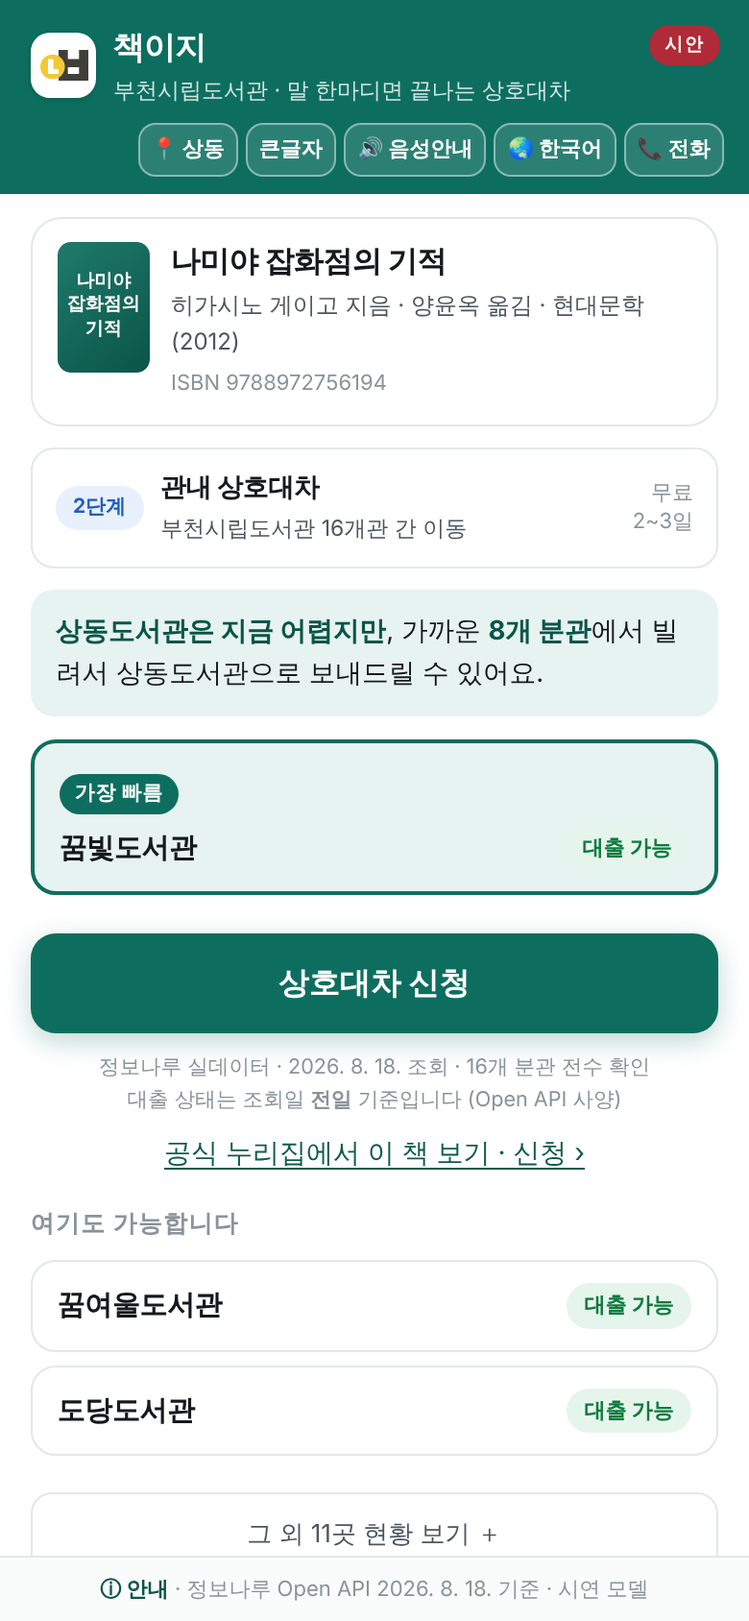
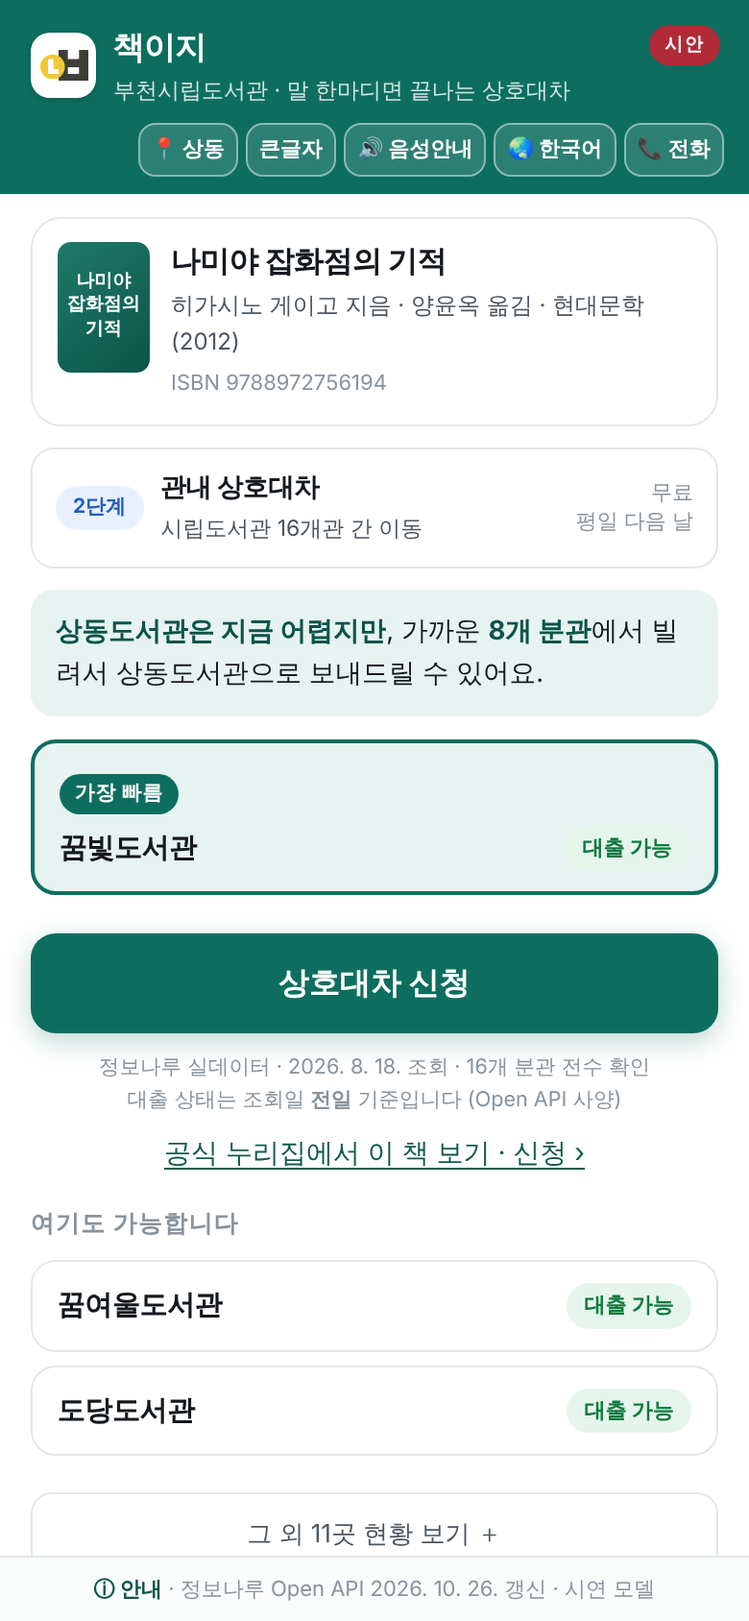
README·기록 정정 — 독립 검토(10. 26.)에서 찾은 사실·표현 바로잡기
- 공개 모델: 실측 4회와 기록표 3회를 구분(11건·4건은 기록표 세 차례), 첫 차례는 도구 11종이 보여 엑사원이 대출 상태를 지어냄, 차례마다 호스트를 고친 사실
- 작은 모델 오류를 기록대로: 판정이 같아도 대출 상태를 뒤집어 옮김(두 모델), 베트남어 문의 6번 모두 한국어
- 「설정 파일 하나로」는 파이썬 참조 서버 기준 — 중계(relay/worker.js)·시민 화면(index.html)은 도서관 코드 표도 바꿈, 반나절은 추정
- README: Ollama 명령에 ollama pull·--tools consult --pickup, 코랩 10~15분은 추정이며 코랩 실행 기록 없음, 책 고르기 한계, 대체자료·월간 추천은 예시 데이터, 판 이력 날짜(v0.3.5 10. 16., 누리집 규정값 10. 18.), 2.6초는 15건 가운데값(네트워크 포함), 동결~결선, 실사용 기록 없음, 시민 화면은 규칙을 화면 안에 따로 넣은 시연, 라이선스 미정 범위에 relay/
- README 첫 그림(docs/img/result.png)을 시연 웹 v1.12.6으로 다시 찍음(소요 「평일 다음 날」, 예시 단추 ② 8. 18. 장면이라고 밝힘)
- server/README 9. 23. 「33건 재현」 삭제(기록 없음) · 모델2종-구동.md 행정망 문장 · ROADMAP 미수령 제재 7~30일 · AGENTS.md 도구 11종·적합성 50건
- 동작 변화 없음(시험 193건 통과)

Claude-Session: https://claude.ai/code/session_01TtT9xcbTP3NzSioNJT8Spd

diff --git a/README.md b/README.md
@@ -1,12 +1,12 @@
 # 책이지 — 말 한마디로 내 손안에 책이
 
-**「나미야 잡화점의 기적, 상동에서 받을 수 있어요?」** 창구와 전화에서 사서가 날마다 받는 이런 질문을 그대로 넣으면, 책이지가 부천시립도서관 16곳의 소장·대출 상태를 확인하고 상호대차 규정 7가지를 맞춰 본 뒤, 이용자에게 읽어 줄 안내문과 창구에서 옮겨 적을 접수 메모를 돌려줍니다. 회원 한도·연체처럼 창구에서만 알 수 있는 것은 「창구 확인」으로 남깁니다. 도구가 이 답을 만드는 데 걸린 시간은 가운데값 2.6초였습니다(2026. 10. 17. 실측, 모델이 답을 쓰는 시간은 뺌).
+**「나미야 잡화점의 기적, 상동에서 받을 수 있어요?」** 창구와 전화에서 사서가 날마다 받는 이런 질문을 그대로 넣으면, 책이지가 부천시립도서관 16곳의 소장·대출 상태를 확인하고 상호대차 규정 7가지를 맞춰 본 뒤, 이용자에게 읽어 줄 안내문과 창구에서 옮겨 적을 접수 메모를 돌려줍니다. 회원 한도·연체처럼 창구에서만 알 수 있는 것은 「창구 확인」으로 남깁니다. 도구를 부른 문의 15건의 가운데값은 2.6초였습니다(2026. 10. 17. 미국 쪽 서버에서 잰 값 — 네트워크 포함, 모델이 답을 쓰는 시간은 뺌).
 
 책이지는 책을 찾아 주는 검색 도구가 아니라 **신청 요건을 판정하고 안내하는 상담 비서**입니다. 국립중앙도서관 도서관 정보나루의 공식 조회 도구(MCP — AI가 직접 부를 수 있는 연결 규격)가 「어느 도서관에 있고 빌릴 수 있는가」까지 답한다면, 책이지는 같은 자료로 「상호대차 신청이 되는가, 어떻게 받는가」까지 알려 줍니다.
 
-- **말은 AI가 알아듣고, 판정은 규칙이.** AI는 이용자의 말에서 책과 받을 도서관을 알아듣고 도구를 부르며, 안내문을 이용자의 언어로 옮깁니다. 판정은 누리집 규정을 옮긴 설정 파일과 규칙이 합니다. 공개 모델 엑사원·라마 실측(10. 18.)에서 두 모델이 모두 도구의 결과를 받은 문의 11건은 판정이 모두 같았고, 도구의 결과 없이 답한 4건은 모두 쓸 수 없는 답이었습니다.
+- **말은 AI가 알아듣고, 판정은 규칙이.** AI는 이용자의 말에서 책과 받을 도서관을 알아듣고 도구를 부르며, 안내문을 이용자의 언어로 옮깁니다(작은 공개 모델은 아직 옮기지 못함 — 3절). 판정은 누리집 규정을 옮긴 설정 파일과 규칙이 합니다. 공개 모델 엑사원·라마 실측(10. 18.)의 기록표 세 차례에서 두 모델이 모두 도구의 결과를 받은 문의 11건은 판정이 모두 같았고, 도구의 결과 없이 답한 4건은 모두 쓸 수 없는 답이었습니다.
 - **접수는 지금처럼 사서가.** 책이지는 접수하지 않습니다. 대출 상태는 정보나루 조회일의 전일 기준이며, 안내문에 조회일을 밝힙니다.
-- **다른 지자체는 설정 파일 하나로.** 정보나루는 전국 공통 자료이고, 도서관 코드와 규정 숫자는 설정 파일에만 있습니다.
+- **다른 지자체는 설정 파일로.** 정보나루는 전국 공통 자료이고, 상담 비서(파이썬 참조 서버)는 도서관 코드와 규정 숫자를 설정 파일에서만 읽습니다. 인터넷용 중계와 시민 화면은 도서관 코드 표도 함께 바꿉니다(6절).
 
 사서용 상담 비서가 주 결과물이고, 시민이 직접 쓰는 음성 화면은 2027년 시범 운영 제안입니다(지금은 시연 화면). 이름은 「책이 이지(easy)」라는 뜻입니다.
 
@@ -27,7 +27,7 @@
 - 🎬 **1분 영상** — [보기](https://github.com/altarry-prog/chaekiji/blob/main/docs/video-demo.mp4)
 
 <p align="center"><img src="docs/img/result.png" width="320" alt="판정 결과 화면 — 상동도서관은 대출 중이고, 가까운 분관에서 상호대차로 받을 수 있다는 안내"></p>
-<p align="center"><sub>시민 음성 화면에서 「나미야 잡화점의 기적 빌리고 싶어요」라고 말했을 때의 판정 결과</sub></p>
+<p align="center"><sub>시민 음성 화면의 예시 단추 ② 「나미야 잡화점의 기적 빌리고 싶어요」 — 2026. 8. 18. 실측 장면의 판정 결과(직접 말하면 오늘 새벽 자료로 찾습니다)</sub></p>
 
 ## 차례
 
@@ -36,7 +36,7 @@
 3. [어디까지 진짜인가](#3-어디까지-진짜인가)
 4. [해 보기](#4-해-보기)
 5. [구조](#5-구조--네-층-바꿔-끼울-수-있게)
-6. [다른 도시로 넓히기](#6-다른-도시로-넓히기--설정-파일-하나)
+6. [다른 도시로 넓히기](#6-다른-도시로-넓히기)
 7. [걸어온 길과 다음 일](#7-걸어온-길과-다음-일)
 8. [문서 지도·저작권](#8-문서-지도)
 
@@ -66,26 +66,27 @@
 
 **누가 무엇을 하나**
 
-- **AI 모델** — 이용자의 말에서 책과 받을 도서관을 알아듣고, 책을 찾지 못하면 저자·내용을 되물어 다시 찾고, 안내문을 이용자의 언어로 옮깁니다. 말은 사람마다 다르기 때문입니다.
+- **AI 모델** — 이용자의 말에서 책과 받을 도서관을 알아듣고, 책을 찾지 못하면 저자·내용을 되물어 다시 찾고, 안내문을 이용자의 언어로 옮깁니다. 말은 사람마다 다르기 때문입니다. 작은 공개 모델(2~3B)은 아직 이용자 언어로 옮기지 못했습니다(10. 18. 실측).
 - **규칙(설정 파일)** — 검색 결과에서 문의한 책을 고르고, 16관 소장·대출을 확인하고, 규정 7종을 판정하고, 안내문 틀과 접수 메모를 만듭니다. 규정은 사람마다 달라서는 안 되므로 같은 질문에는 같은 답이 나와야 합니다.
 - **사서(도서관리시스템)** — 접수와 회원 한도·연체·중복 확인을 합니다. 회원 정보와 실제 처리는 사람이 맡습니다.
 
-판정을 모델에 맡기지 않은 까닭은 실측에 있습니다. 공개 모델 2종(엑사원 3.5·라마 3.2)이 도구의 결과 없이 스스로 답한 4건은 소장 사실이 틀린 답 2건, 판정이 틀린 답 1건, 답을 미룬 1건이었습니다(10. 18., [기록표](server/lab/out/)). 그래서 작은 공개 모델에는 호스트가 도구 하나만 보여 주고 받을 도서관을 고정합니다.
+판정을 모델에 맡기지 않는 설계는 실측도 뒷받침합니다. 공개 모델 2종(엑사원 3.5·라마 3.2) 실측(10. 18.)의 기록표 세 차례에서 도구의 결과 없이 스스로 답한 4건은 소장 사실이 틀린 답 2건, 판정이 틀린 답 1건, 답을 미룬 1건이었습니다. 도구 11종이 모두 보였던 첫 차례에는 엑사원이 찾기 도구만 부르고 대출 상태를 지어냈습니다([기록](server/lab/out/)). 그래서 작은 공개 모델에는 호스트가 도구 하나만 보여 주고 받을 도서관을 고정합니다.
 
 **두 가지 쓰임**
 
-- **지금 쓸 수 있는 것 — 상담 비서.** 창구와 전화의 사서가 씁니다. 접수는 사서가 지금처럼 도서관리시스템에서 합니다.
-- **시범 운영 제안 — 시민 음성 화면.** 같은 도구를 시민이 음성, 10개 언어, 큰글자, 전화 모드로 씁니다. 신청 확인까지 화면 안에서 끝나며 실제 접수로 이어지지는 않습니다.
+- **지금 쓸 수 있는 것 — 상담 비서.** 창구와 전화의 사서가 쓰도록 만들었습니다(실제 창구에서 쓴 기록은 아직 없습니다). 접수는 사서가 지금처럼 도서관리시스템에서 합니다.
+- **시범 운영 제안 — 시민 음성 화면.** 같은 판정을 시민이 음성, 10개 언어, 큰글자, 전화 모드로 쓰는 모습입니다. 지금 시연 화면은 같은 규칙을 화면 안에 따로 넣었고, 상담 비서의 도구에 붙이는 것이 제안입니다. 신청 확인은 화면 안에서 끝나며 실제 접수로 이어지지 않습니다.
 
 ## 3. 어디까지 진짜인가
 
 **실제로 동작하는 것**
 
 - 찾기, 소장 확인, 규정 판정, 안내문, 접수 메모 — 정보나루 공개 데이터 사용
+- 책 고르기 — 정보나루 검색 결과에서 문의에 가장 맞는 판을 고릅니다. 같은 제목·여러 판본·권차가 있는 책은 다른 판을 고르거나 후보와 함께 되물을 수 있어, 접수 메모의 ISBN을 창구에서 확인합니다(10. 19. AI 대조 12건에서 찾은 다른 책 3건·못 찾음 2건을 고침).
 - 매일 새벽 자료 갱신과 중계 서버 — 인증키는 서버 쪽에만 둡니다
-- 심사 기간(2026. 11. 8.~11. 25.)에는 11. 8. 새벽 자료로 고정합니다 — 11. 8. 18시 동결 커밋에서 갱신을 멈추고, 그 자료를 11. 26.까지 오늘 자료처럼 씁니다. 화면·안내문에는 조회일(「2026. 11. 8. 조회」)을 그대로 밝힙니다.
+- 동결(2026. 11. 8. 18시)부터 결선(11. 25.)까지는 11. 8. 새벽 자료로 고정합니다 — 11. 8. 18시 동결 커밋에서 갱신을 멈추고, 그 자료를 11. 26.까지 오늘 자료처럼 씁니다. 화면·안내문에는 조회일(「2026. 11. 8. 조회」)을 그대로 밝힙니다.
 - 시민 화면의 음성, 10개 언어, 판정 흐름
-- **공개 모델 2종 실측** — 엑사원 3.5·라마 3.2를 깃허브 액션(CPU)에서 네 차례 돌렸습니다(10. 18.). 기록표가 남은 세 차례에서 두 모델이 모두 도구의 결과를 받은 문의 11건은 판정이 같았고, 나머지 4건은 한쪽 모델이 도구의 결과 없이 답했습니다. 작은 모델은 판정이 같아도 안내문을 옮기며 도서관 이름을 틀리거나, 베트남어 문의에 한국어로 답하기도 했습니다([기록표 3개](server/lab/out/)).
+- **공개 모델 2종 실측** — 엑사원 3.5·라마 3.2를 깃허브 액션(CPU)에서 네 차례 돌렸습니다(10. 18.). 기록표가 남은 세 차례에서 두 모델이 모두 도구의 결과를 받은 문의 11건은 판정이 같았고, 나머지 4건은 한쪽 모델이 도구의 결과 없이 답했습니다. 작은 모델은 판정이 같아도 안내문을 옮기며 도서관 이름이나 대출 상태를 틀리게 적었고(두 모델 모두), 베트남어 문의에는 기록된 여섯 번 모두 한국어로만 답했습니다. 차례 사이에 호스트를 고쳤으므로(받을 도서관·언어 고정 등) 같은 조건을 되풀이한 결과는 아닙니다([기록표 3개와 원 기록](server/lab/out/)).
 
 **시연이거나 모의인 것**
 
@@ -93,6 +94,7 @@
 - **회원 정보** — 가상 인물입니다. 한도·연체·중복은 창구에서 확인합니다.
 - **책이지 패스(사전 위임)** — 위임 흐름은 진짜, 위임장 보존과 통지는 시연입니다.
 - **전화 한 통 모드** — 대화 흐름은 진짜, 전화망 연결은 시연입니다.
+- **대체자료·월간 추천** — 예시 데이터입니다.
 - **판정 규정값** — 부천시립도서관 누리집 상호대차 안내(2026. 8. 10. 수정판)와 맞췄습니다(10. 18.). 안내에 없는 자료 유형·신착 여부는 창구 확인으로 두고, 미수령 제재(7일)는 안내문으로만 알립니다.
 
 **기기에 따라 다른 것**
@@ -102,9 +104,9 @@
 
 **자료는 어디서 오나요?** 오늘 새벽에 받은 자료를 먼저 씁니다. 그 자료에 없는 책은 중계 서버로 그 자리에서 조회하고(가운데값 2.7초, 10. 17. 실측), 그것도 안 되면 2026. 8. 18. 실측값을 씁니다. 실측값도 없는 책은 「없다」고 하지 않고 「확인 불가 — 창구에서 조회」로 답합니다. 어느 쪽인지는 안내문에 조회일로 찍힙니다.
 
-**전일 기준인데 쓸모가 있나요?** 상담 비서는 신청 전 안내와 첫 확인에 씁니다. 최종 확인과 접수는 지금처럼 사서가 도서관리시스템에서 합니다. 시연 도서 5종 × 16관에서 앞날 「대출 가능」이던 556쌍 가운데 548쌍(98.6%)이 다음 날 자료에서도 「대출 가능」이었습니다(2026. 10. 16.~26., [기록](server/lab/out/stability_2026-10-16_2026-10-26.md)). 정보나루 자료끼리 견준 값이며 실시간 시스템과 견준 값은 아닙니다. 실시간 조회는 도서관리시스템 업체가 연계할 수 있다고 회신했습니다(10. 21., [7절](#7-걸어온-길과-다음-일)).
+**전일 기준인데 쓸모가 있나요?** 상담 비서는 신청 전 안내와 첫 확인에 씁니다. 최종 확인과 접수는 지금처럼 사서가 도서관리시스템에서 합니다. 시연 도서 5종 × 16관에서 앞날 「대출 가능」이던 556쌍 가운데 548쌍(98.6%)이 다음 날 자료에서도 「대출 가능」이었습니다(2026. 10. 16.~26., [기록](server/lab/out/stability_2026-10-16_2026-10-26.md)). 표본이 작아(시연 도서 5종) 참고용이며, 정보나루 자료끼리 견준 값이라 실시간 시스템과 견준 값은 아닙니다. 실시간 조회는 도서관리시스템 업체가 연계할 수 있다고 회신했습니다(10. 21., [7절](#7-걸어온-길과-다음-일)).
 
-**어떻게 확인하나** — 고칠 때마다 아래 자동 시험을 모두 다시 돌립니다(2026. 10. 26., [실행 기록](https://github.com/altarry-prog/chaekiji/actions/workflows/tests.yml)).
+**어떻게 확인하나** — 서버·중계 코드를 고칠 때마다 아래 자동 시험을 모두 다시 돌립니다(2026. 10. 26., [실행 기록](https://github.com/altarry-prog/chaekiji/actions/workflows/tests.yml)).
 
 | 시험 | 건수 |
 |---|---|
@@ -114,7 +116,7 @@
 | 중계 | 20 |
 | **합계** | **193** |
 
-- 상담 비서 시험은 판정 규칙, 저장, 중계 연결, 공개 모델 연결을 봅니다. 두 판 대조는 서버 판과 원격 판의 답이 글자까지 같은지 봅니다. 설치형에서는 `run` 명령으로 이 가운데 서버 시험 104건을 돌립니다.
+- 상담 비서 시험은 판정 규칙, 저장, 중계 연결, 공개 모델 연결(모의 Ollama)을 봅니다. 두 판 대조는 서버 판과 원격 판의 답이 글자까지 같은지 봅니다. 설치형에서는 `run` 명령으로 이 가운데 서버 시험 104건을 돌립니다.
 - 이와 따로 운영 점검이 매일 7가지(시연 웹·중계·원격 상담 비서)를 봅니다.
 - 서버 시험은 2026. 8. 30. 33건에서 시작해, 결함을 찾아 고칠 때마다 늘려 왔습니다.
 
@@ -125,7 +127,7 @@
 **상담 비서 — 인터넷 창의 claude.ai에서**
 
 1. claude.ai에서 「사용자 정의 → 커넥터 → + 추가 → 커스텀 커넥터 추가」를 누릅니다.
-2. 주소 칸에 `https://chaekiji-relay.altarry2.workers.dev/mcp` 를 넣고 「계속」, 감지된 인증 설정에서 다시 「계속」을 누른 뒤, 인증 방식은 「로그인 없음」을 골라 「추가」를 누릅니다.
+2. 이름(예: 책이지 상담 비서)과 주소 `https://chaekiji-relay.altarry2.workers.dev/mcp` 를 넣고 「계속」, 감지된 인증 설정이 나오면 다시 「계속」을 누른 뒤, 인증 방식은 「로그인 없음」을 골라 「추가」를 누릅니다.
 3. 새 대화의 「+ → 커넥터」에서 켜고, 이용자의 말을 그대로 적습니다.
 
    > 나미야 잡화점의 기적 빌리고 싶어요, 상동에서 받을게요
@@ -138,7 +140,7 @@
 
 **시민 음성 화면** — 휴대폰 크롬이나 사파리로 [시연 웹](https://altarry-prog.github.io/chaekiji/)을 열고 마이크를 허용합니다. 예시 단추 세 개가 세 갈래를 보여 줍니다.
 
-**공개 모델 2종 — 코랩에서** — [노트북](https://colab.research.google.com/github/altarry-prog/chaekiji/blob/main/server/lab/colab_model2.ipynb)을 열고 「런타임 → 모두 실행」을 누릅니다. 엑사원 3.5와 라마 3.2가 같은 문의 5건을 처리하고 기록표를 만듭니다(T4 GPU로 10~15분).
+**공개 모델 2종 — 코랩에서** — [노트북](https://colab.research.google.com/github/altarry-prog/chaekiji/blob/main/server/lab/colab_model2.ipynb)을 열고 「런타임 → 모두 실행」을 누릅니다. 엑사원 3.5와 라마 3.2가 같은 문의 5건을 처리하고 기록표를 만들도록 짰습니다(T4 GPU로 10~15분, 추정). 코랩에서 직접 돌린 기록은 아직 없고, 같은 코드 칸을 깃허브 액션에서 돌린 기록만 있습니다(3절).
 
 ### 설치형 — 10분
 
@@ -152,9 +154,10 @@
        python server/lab/consult_cli.py "나미야 잡화점의 기적 빌리고 싶어요" 상동
 
 3. **클로드 데스크톱** — `server/claude_desktop_config.example.json`대로 등록하고, 프롬프트 **consult**를 고릅니다.
-4. **공개 모델(Ollama)** — 엑사원이나 라마로 같은 서버를 돌립니다.
+4. **공개 모델(Ollama)** — Ollama를 설치하고 모델을 받은 뒤 같은 서버를 돌립니다. 상담 도구 하나만 보이고 받을 도서관을 고정합니다(macOS·Linux는 `python3`).
 
-       python server/hosts/ollama_host.py --model exaone3.5:2.4b
+       ollama pull exaone3.5:2.4b
+       python server/hosts/ollama_host.py --model exaone3.5:2.4b --tools consult --pickup 상동
 
 설치와 연결은 [server/README.md](server/README.md), 모델 2종 절차는 [server/docs/모델2종-구동.md](server/docs/모델2종-구동.md)에 있습니다.
 
@@ -179,11 +182,11 @@
 
 </details>
 
-## 6. 다른 도시로 넓히기 — 설정 파일 하나
+## 6. 다른 도시로 넓히기
 
 책이지는 국립중앙도서관이 제공하는 전국 공통 데이터(도서관 정보나루)를 활용하므로, 다른 지자체도 도서관 코드와 상호대차 규정(신청 한도·보관 기간 등)을 설정하면 같은 방식으로 적용할 수 있습니다.
 
-- **상담 비서** — 도서관 코드와 규정 숫자를 담은 설정 파일 하나만 새로 쓰면 됩니다(반나절). 2026년 9월에 다른 지자체 다섯 곳(서울 강남구·광진구, 청주시, 부산시, 용인시)의 공개 안내를 견줘 보니 1인 한도(2~5권), 보관 기간(2~3일), 미수령 제재(1주~30일), 도착 시각이 곳마다 달랐습니다. 한도·보관 기간·도착 안내·제외 자료는 지금도 설정 값으로 바꿀 수 있고, 휴관일을 뺀 보관일 계산과 미수령 누적 기준은 다음 판 설정 초안에 있습니다([v0.4 로드맵](server/docs/ROADMAP-v0.4.md)).
+- **상담 비서(파이썬 참조 서버)** — 도서관 코드와 규정 숫자를 담은 설정 파일 하나만 새로 쓰면 됩니다(반나절, 추정). 인터넷용 원격 상담 비서는 중계(`relay/worker.js`)의 도서관 코드 표도 바꾸고 그 도시의 인증키로 중계를 따로 올려야 하며, 시민 화면은 `index.html`의 도서관 코드 표를 바꿉니다. 2026년 9월에 다른 지자체 다섯 곳(서울 강남구·광진구, 청주시, 부산시, 용인시)의 공개 안내를 견줘 보니 1인 한도(2~5권), 보관 기간(2~3일), 미수령 제재(1주~30일), 도착 시각이 곳마다 달랐습니다(광진구는 도착 시각만 확인). 한도·보관 기간·도착 안내·제외 자료는 지금도 설정 값으로 바꿀 수 있고, 휴관일을 뺀 보관일 계산과 미수령 누적 기준은 다음 판 설정 초안에 넣었습니다([v0.4 로드맵](server/docs/ROADMAP-v0.4.md)).
 - **접수까지 자동으로** — 도서관리시스템 종류마다 연결 부품(커넥터)을 하나씩 만듭니다. 개발량은 도시 수가 아니라 시스템 종류 수를 따릅니다.
 - **화면은 바꿔 끼우기** — 창구 PC, 도서관 누리집, 키오스크가 같은 도구를 부르면 됩니다.
 
@@ -197,9 +200,9 @@
 | 9월 | 화면 v1.7 — 누리집 운영 규정 반영, 전화 한 통 모드 |
 | 10.&nbsp;13. | 화면과 서버를 한 저장소로 |
 | 10.&nbsp;15. | 서버 v0.3.4 — 사서용 상담 비서로 |
-| 10.&nbsp;16. | 원격 상담 비서 — claude.ai에 주소 한 줄로 연결 |
-| 10.&nbsp;18. | 공개 모델 2종 실측 — 깃허브 액션에서 네 차례 |
-| 10.&nbsp;19. | 서버 v0.3.5 · 화면 v1.12.6 — 누리집 규정값, 책 고르기 |
+| 10.&nbsp;16. | 서버 v0.3.5 · 원격 상담 비서 — claude.ai에 주소 한 줄로 연결 |
+| 10.&nbsp;18. | 공개 모델 2종 실측(깃허브 액션, 네 차례) · 누리집 규정값 반영(화면 v1.12.4) |
+| 10.&nbsp;19. | 화면 v1.12.6 · 책 고르기·판본 보정 |
 
 자세한 이력은 [CHANGELOG.md](CHANGELOG.md)에 있습니다.
 
@@ -229,15 +232,15 @@
 
 **함께 보기**
 
-- 공공 GitLab — 제출본 https://gitlab.aigov.go.kr/altarry/chaekiji-challenge (2026. 11. 9. 등록) · 공개 초안 https://gitlab.aigov.go.kr/altarry/chaekiji
-- 데이터 출처: 도서관 정보나루 Open API(국립중앙도서관), 국립장애인도서관 대체자료종합목록
+- 공공 GitLab — 제출본 https://gitlab.aigov.go.kr/altarry/chaekiji-challenge (2026. 11. 9. 등록) · 공개 초안 https://gitlab.aigov.go.kr/altarry/chaekiji (2026. 10. 18. 판)
+- 데이터 출처: 도서관 정보나루 Open API(국립중앙도서관). 대체자료와 월간 추천은 예시 데이터입니다.
 
 ## 저작권과 문의
 
 © 2026 이완재 · 부천시립도서관 상동도서관
 
 - **참조 서버(`server/`)** — 다른 도서관이 그대로 가져다 쓰도록 **MIT 라이선스**로 공개합니다.
-- **시연 웹(루트의 화면 파일)** — 실현 가능성을 검증하는 시연 모델입니다. 이용 허락(라이선스)은 아직 정하지 않았으며, 도입·인용을 검토하는 기관은 문의해 주십시오.
+- **시연 웹(루트의 화면 파일)과 중계(`relay/`)** — 시연 웹은 실현 가능성을 검증하는 시연 모델입니다. 둘 다 이용 허락(라이선스)은 아직 정하지 않았으며, 도입·인용을 검토하는 기관은 문의해 주십시오.
 
 문의: 부천시립도서관 상동도서관 이완재 (altarry@korea.kr)
 행정안전부 「AI 정부 실험실」 과제 · 부천시립도서관 AI 서비스 도입 TF

diff --git a/CHANGELOG.md b/CHANGELOG.md
@@ -5,7 +5,7 @@
 
 | 날짜 | 구성 | 판 | 내용 |
 |---|---|---|---|
-| 2026. 10. 26. | 문서·기록 | — | **README 5판**(담당자 승인 — 입상 분석 10. 26.) — 첫 화면을 창구 질문 한 줄로 열고 「검색 도구가 아니라 신청 요건을 판정하고 안내하는 상담 비서」로 범주를 밝힘, 2절 「누가 무엇을 하나」 표(AI 모델·규칙·사서), 3절 공개 모델 실측을 기록대로(네 차례, 두 모델이 모두 도구의 결과를 받은 11건은 판정이 같음, 도구의 결과 없이 답한 4건은 쓸 수 없는 답), 「전일 기준인데 쓸모가 있나요?」(하루 사이 「대출 가능」 유지 98.6%), 자동 시험 표(합계 193건), 4절 「2분」·인증 단계·늘 되는 문의 다섯 권, 6절 지자체 5곳 한 줄, 7절 판 이력 표와 「정식 활용까지 남은 길」 표, 공공 GitLab 제출본·공개 초안 주소 · **공개 모델 실측 기록표 3개와 원 기록**을 가지 `tools/model2`에서 `server/lab/out/`로(내용 그대로, 폴더 README) · **`server/lab/stability.py`**(전일 기준 자료의 하루 사이 유지율, 정보나루 호출 0)와 기록 · server/README·lab/README의 실험실 가상서버 문장을 사실대로(접속이 되지 않아 쓰지 않음). 동작 변화 없음 |
+| 2026. 10. 26. | 문서·기록 | — | **README 5판**(담당자 승인 — 입상 분석 10. 26.) — 첫 화면을 창구 질문 한 줄로 열고 「검색 도구가 아니라 신청 요건을 판정하고 안내하는 상담 비서」로 범주를 밝힘, 2절 「누가 무엇을 하나」 표(AI 모델·규칙·사서), 3절 공개 모델 실측을 기록대로(네 차례, 두 모델이 모두 도구의 결과를 받은 11건은 판정이 같음, 도구의 결과 없이 답한 4건은 쓸 수 없는 답), 「전일 기준인데 쓸모가 있나요?」(하루 사이 「대출 가능」 유지 98.6%), 자동 시험 표(합계 193건), 4절 「2분」·인증 단계·늘 되는 문의 다섯 권, 6절 지자체 5곳 한 줄, 7절 판 이력 표와 「정식 활용까지 남은 길」 표, 공공 GitLab 제출본·공개 초안 주소 · **공개 모델 실측 기록표 3개와 원 기록**을 가지 `tools/model2`에서 `server/lab/out/`로(내용 그대로, 폴더 README) · **`server/lab/stability.py`**(전일 기준 자료의 하루 사이 유지율, 정보나루 호출 0)와 기록 · server/README·lab/README의 실험실 가상서버 문장을 사실대로(접속이 되지 않아 쓰지 않음) · **독립 검토(10. 26.)로 바로잡음**: 공개 모델 실측 4회와 기록표 3회 구분(11건·4건은 기록표 세 차례), 작은 모델 오류를 기록대로(대출 상태를 뒤집어 옮김, 베트남어 문의 6번 모두 한국어), 「설정 파일 하나로」는 파이썬 참조 서버 기준(중계 worker.js·시민 화면 index.html은 도서관 코드 표도 바꿈), README의 Ollama 명령에 `ollama pull`·`--tools consult --pickup`, 코랩 10~15분은 추정·코랩 실행 기록 없음, 책 고르기 한계 한 줄, 9. 23. 「33건 재현」 삭제(기록 없음), 대체자료·월간 추천은 예시 데이터, 판 이력 날짜(v0.3.5는 10. 16., 누리집 규정값은 10. 18.), README 첫 그림을 시연 웹 v1.12.6으로 다시 찍음(「평일 다음 날」), 2.6초는 15건 가운데값(네트워크 포함), 「심사 기간」 → 동결~결선, 실사용 기록 없음 명시, 시민 화면은 규칙을 화면 안에 따로 넣은 시연임, `server/AGENTS.md` 도구 11종·적합성 50건, ROADMAP 미수령 제재 7~30일. 동작 변화 없음 |
 | 2026. 10. 19. | 문서 | — | **「상호대차 서비스란」 안내 상자**(담당자 승인) — README 1절 첫머리에 상호대차 서비스의 정의(국립중앙도서관 책바다 소개의 표현), 「도서관법」이 정한 공공도서관의 업무(제32조), 부천 44개소·2025년 320,140권(운영실적 2025. 12.), 다른 지역은 책바다를 한 상자로. 6절 첫머리에 「전국 공통 데이터(도서관 정보나루)를 활용하므로 다른 지자체도 도서관 코드와 상호대차 규정을 설정하면 같은 방식으로 적용」 한 문장(바로 아래 목록의 같은 말 한 문장은 뺌). 동작 변화 없음 |
 | 2026. 10. 19. | 서버 | v0.3.5 | **처음 보는 AI 리허설 반영**(AI 생성, 사람 검토 전) — 구동안내서 초안과 깃허브 사본만 준 별도 에이전트가 경로 D를 끝까지 해 보고 찾은 것 가운데 코드 두 가지: ① `auto`인데 중계에 닿지 못해 매일 갱신 파일·8. 18. 자료로 돌아가면, 시연 도서 5종 밖의 책을 「저자·출판사를 알려 달라」고 되묻던 것 → 「조회 불가 → 창구」(relay 모드의 v0.3.5 규칙과 같게, 일부러 고른 `demo`는 그대로) ② 파이썬 패키지 설치를 막은 PC에서 `run.sh`가 가상환경(.venv)에 설치했을 때, 다음 명령에 쓸 파이썬 경로를 끝에 알려 줌. 시험 104건(중계 모드 +1) |
 | 2026. 10. 19. | 서버·중계 | v0.3.5 | **판본 보정**(AI 생성, 사람 검토 전) — 고른 판(ISBN)이 관내 16곳에 없어 「책바다 안내」가 나올 때, 검색 결과 가운데 같은 작품의 다른 판(핵심 서명·첫 저자가 같고 문의와도 맞는 것) 하나의 관내 소장을 확인해 있으면 안내문에 「같은 책의 다른 판은 관내에 있습니다 — ○○ ○○년 판은 …」과 그 판의 누리집 링크, 접수 메모에 「다른 판 관내: …」를 덧붙임. 갈래는 바꾸지 않음(판이 달라도 되는지는 이용자가 정함). 정보나루 호출은 책바다 갈래에서만 16회 늘어남(원격 판의 요청당 외부 호출 한도 50회 안 — 그래서 다른 판은 하나만 봄). 원격 판·파이썬 판 같은 규칙, 시험 103건(중계 모드 +1) · 원격 38(+1) · 대조 31(+2) · 중계 20. 배포 뒤 실제 확인에서 찾은 것도 고침: 정보나루 서명 끝 빈칸 때문에 안내문이 「『문헌정보학개론 』은(는)」이 되던 것 → 「『문헌정보학개론』은」(접수 메모도). 후보·같은 제목 책에 권차(`vol`)를 함께 실어 「흔한남매」 여러 권을 가릴 수 있게(접수 메모 「검색 후보: 흔한남매 [7권]…」) |

diff --git a/server/lab/out/README.md b/server/lab/out/README.md
@@ -4,29 +4,30 @@
 
 ## 공개 모델 2종 — 엑사원 3.5 2.4B · 라마 3.2 3B (2026. 10. 18.)
 
-코랩 노트북(`server/lab/colab_model2.ipynb`)의 코드 칸을 깃허브 액션(CPU 4코어, GPU 없음)에서 그대로 돌렸습니다. 담당자의 행정망 PC에서 코랩이 열리지 않아서입니다. 같은 서버·같은 지시문·같은 문의 5건이며, 모델에게는 상담 도구(`consult_request`) 하나만 보입니다. 실행 도구는 가지 `tools/model2`에 있습니다.
+코랩 노트북(`server/lab/colab_model2.ipynb`)의 코드 칸을 깃허브 액션(GPU 없음)에서 그대로 돌렸습니다. 담당자의 행정망 PC에서 코랩이 열리지 않아서입니다. 같은 지시문·같은 문의 5건입니다. 2~4차는 모델에게 상담 도구(`consult_request`) 하나만 보였고(CPU 4코어), 1차는 도구 11종이 모두 보였습니다(CPU 2코어). 실행 도구는 가지 `tools/model2`에 있습니다.
 
 | 차례 | 기록 |
 |---|---|
-| 1 (13:12) | 노트북 실행이 중간에 실패해 원 기록 8건만 남음(기록표 없음). 여기서 찾은 결함을 고친 뒤 다시 돌림 |
-| 2 (14:12) | [기록표](model2_record_actions_2026-10-18_1412.md) — 두 모델 판정이 같은 문의 2/5, 엑사원이 3건을 도구의 결과 없이 답함 |
-| 3 (14:25) | [기록표](model2_record_actions_2026-10-18_1425.md) — 같은 문의 4/5, 라마가 1건을 도구의 결과 없이 답함 |
+| 1 (13:12) | 노트북 실행이 중간에 실패해 원 기록 8건만 남음(기록표 없음). 도구 11종이 다 보인 상태에서 엑사원은 찾기 도구만 부르고 대출 상태를 지어냄. 여기서 찾은 결함을 고친 뒤 다시 돌림(`server/prompts/2026-10-18-공개모델-첫실측-결함수정.md`) |
+| 2 (14:12) | [기록표](model2_record_actions_2026-10-18_1412.md) — 두 모델 판정이 같은 문의 2/5, 엑사원이 3건을 도구의 결과 없이 답함 → 이 뒤 받을 도서관·언어를 호출자 값으로 고정(df3a939) |
+| 3 (14:25) | [기록표](model2_record_actions_2026-10-18_1425.md) — 같은 문의 4/5, 라마가 1건을 도구의 결과 없이 답함 → 이 뒤 모델이 넘긴 회원 토큰 인자를 뺌(b886a5b) |
 | 4 (14:46) | [기록표](model2_record_actions_2026-10-18_1446.md) — 같은 문의 5/5 |
 
 - 기록표가 남은 세 차례에서 두 모델이 모두 도구의 결과를 받은 문의 11건은 판정이 모두 같았습니다.
-- 도구의 결과 없이 답한 4건은 소장 사실이 틀린 답 2건, 판정이 틀린 답 1건, 답을 미룬 1건이었습니다. 판정을 모델에 맡기지 않는 까닭입니다.
-- 판정이 같아도 작은 모델은 안내문을 옮기며 도서관 이름을 틀리거나(엑사원), 베트남어 문의에 한국어로 답했습니다(두 모델). 기록표의 「답 원문」을 펼치면 그대로 보입니다.
+- 도구의 결과 없이 답한 4건은 소장 사실이 틀린 답 2건, 판정이 틀린 답 1건, 답을 미룬 1건이었습니다. 판정을 모델에 맡기지 않는 설계를 뒷받침합니다.
+- 판정이 같아도 작은 모델은 안내문을 옮기며 도서관 이름이나 대출 상태를 틀리게 적었고(두 모델 모두), 베트남어 문의에는 기록된 여섯 번 모두 한국어로만 답했습니다. 기록표의 「답 원문」을 펼치면 그대로 보입니다.
+- 차례마다 호스트를 고쳤으므로 같은 조건을 되풀이한 결과가 아닙니다(고칠 때마다 나아짐).
 - 원 기록: `host_log_actions_…`(도구 호출) · `host_answers_actions_…`(최종 답). 1차는 원 기록만 있습니다.
 - 이 기록은 처음에 가지 `tools/model2`에 쌓였고, 2026. 10. 26. 제출 저장소(main)로 옮겼습니다. 내용은 바꾸지 않았습니다.
 
 ## 원격 상담 비서 처리 시간 (2026. 10. 16.·17.)
 
-- [consult_timing_2026-10-17.md](consult_timing_2026-10-17.md) — 문의 15건 모두 성공, 가운데값 2.6초(오늘 새벽 자료 0.2초, 그 자리 조회 2.7초). 도구 처리 시간만이며 모델이 답을 쓰는 시간은 빠집니다. 미국 쪽 깃허브 액션에서 불렀습니다.
+- [consult_timing_2026-10-17.md](consult_timing_2026-10-17.md) — 문의 15건 모두 성공, 가운데값 2.6초(오늘 새벽 자료 0.2초, 그 자리 조회 2.7초). 도구를 부르고 답이 올 때까지(네트워크 포함)이며 모델이 답을 쓰는 시간은 빠집니다. 미국 쪽 깃허브 액션에서 불렀습니다.
 - [consult_timing_2026-10-16.md](consult_timing_2026-10-16.md) — 첫 측정. 16관을 한꺼번에 조회하도록 바꾸기 전입니다.
 
 ## 전일 기준 자료의 하루 사이 유지율 (2026. 10. 16.~26.)
 
-- [stability_2026-10-16_2026-10-26.md](stability_2026-10-16_2026-10-26.md) — 앞날 「대출 가능」이던 쌍 556개 가운데 548개(98.6%)가 다음 날 자료에서도 「대출 가능」. 시연 도서 5종 × 16관.
+- [stability_2026-10-16_2026-10-26.md](stability_2026-10-16_2026-10-26.md) — 앞날 「대출 가능」이던 쌍 556개 가운데 548개(98.6%)가 다음 날 자료에서도 「대출 가능」. 시연 도서 5종 × 16관이라 표본이 작아 참고용입니다(16관 모두 내내 대출 가능이던 한 권이 160쌍).
 - 만든 방법: `python server/lab/stability.py --write`(매일 새벽 자료의 깃 이력을 견줌, 정보나루 호출 없음). 실시간 도서관리시스템과 견준 값이 아닙니다.
 
 ## 그 밖

diff --git a/server/AGENTS.md b/server/AGENTS.md
@@ -5,7 +5,7 @@
 
 ## 이 저장소는 무엇인가
 부천시립도서관 상호대차 AI 에이전트 「책이지」의 **표준 도구 계층 참조 서버**(MCP, stdio JSON-RPC).
-도구 10종(`server.py` TOOLS)과 규정 판정 7종(`policy.py`), 지역 고유값은 전부 `config/*.yaml`.
+도구 11종(`server.py` TOOLS)과 규정 판정 7종(`policy.py`), 지역 고유값은 전부 `config/*.yaml`.
 운영 서비스가 아니다 — 시연·검증용이며 실제 접수는 일어나지 않는다.
 
 ## 실행·시험
@@ -21,7 +21,7 @@
 2. 운영 중인 시스템(도서관리시스템 알파스, 도서관 누리집, 통합 SSO)에 접속·자동화하는 코드를 만들지 않는다. 연동은 `connectors/alpas_stub.py`의 함수 7종 **모의**로만.
 3. 개인정보를 만들거나 넣지 않는다. 회원은 `fixtures/members.json`의 가상 인물뿐. 내부망 주소·시스템 구조·화면 구성을 코드·주석·문서에 적지 않는다.
 4. 정직 고지를 지운다·약화하지 않는다: 「전일 기준」(정보나루 대출 가능 여부), 「모의」(알파스·회원·추천·대체자료), 「실제 접수 없음」.
-5. 기존 시험의 판정 기준을 바꾸거나 시험을 지우지 않는다(약하게 만들지 않는다). 새 시험은 더해도 되며, 더하면 시험 수를 README·CHANGELOG·CI 이름에 함께 고친다(2026. 10. 기준 적합성 48건).
+5. 기존 시험의 판정 기준을 바꾸거나 시험을 지우지 않는다(약하게 만들지 않는다). 새 시험은 더해도 되며, 더하면 시험 수를 README·CHANGELOG·CI 이름에 함께 고친다(2026. 10. 기준 적합성 50건).
    원격 상담 비서(`relay/mcp.js`)는 이 서버의 relay 모드와 같은 답을 내야 한다 — `tools.py`·`policy.py`·`connectors/naru.py`의 판정·안내문을 고치면 `relay/mcp.js`도 같이 고치고 `relay/test_mcp_parity.py`로 대조한다. 설정·픽스처·지시문을 고치면 `python3 relay/build_mcp_data.py`.
 6. 지역 규정 숫자·도서관 코드를 코드에 쓰지 않는다 — `config/*.yaml`에만.
 7. 파일 삭제·외부 접속·발송처럼 영향이 큰 동작은 실행 전에 사람에게 묻는다.
@@ -38,7 +38,7 @@
 
 ## 구조 요약
 ```
-server.py      MCP 전송·도구 노출·감사 훅       tools.py      도구 10종 구현
+server.py      MCP 전송·도구 노출·감사 훅       tools.py      도구 11종 구현
 policy.py      규정 판정 7종(숫자 없음)          vault.py      토큰 금고(시연용 고정 토큰)
 store.py       영속 저장(SQLite, 환경변수로 켬)  audit.py      감사 기록(해시 사슬 JSONL)
 connectors/    naru.py(정보나루) · alpas_stub.py(도서관리시스템 모의 = 벤더 명세)

diff --git a/server/docs/ROADMAP-v0.4.md b/server/docs/ROADMAP-v0.4.md
@@ -13,7 +13,7 @@
 |---|---|---|---|
 | 1 | 관내 소장은 있으나 전부 대출 중이면 → **예약**(책바다는 관내 미소장 자료가 대상) | 전국 폴백 | `when_all_on_loan: reserve` 분기 · 예약 도착 시 상호대차 전환 |
 | 2 | 책바다는 별도 가입·사서 승인·실비(5,800원, 장애인 무료) → 에이전트가 **대신 신청할 수 없음** | 전국 경로를 신청 경로처럼 취급 | `national.mode: guide_only` — 안내 + 승인 요청 전달만 |
-| 3 | 도착 후 보관기한(통상 3일) 미수령 시 **10~30일 신청 제한** | 보관기한 자동취소만 | 규정 판정 8종째 `no_pickup_penalty` · 위임(패스)은 미수령 1회 시 자동 일시정지 |
+| 3 | 도착 후 보관기한(통상 2~3일) 미수령 시 **7~30일 신청 제한**(누적 기준인 곳도 있음) | 보관기한 자동취소만 | 규정 판정 8종째 `no_pickup_penalty` · 위임(패스)은 미수령 1회 시 자동 일시정지 |
 | 4 | 이용자 취소는 **접수 상태에서만**, 이송 시작 후엔 도서관 문의 | 상태 무관 취소 | `cancellable_states: [접수]` |
 | 5 | 예상 수령일은 13시 기준·익일 도착·주말 이월 등 **계산식** | 고정 문자열 "2~3일" | `eta_rules`로 요일·시각 계산 |
 

diff --git a/server/README.md b/server/README.md
@@ -264,7 +264,7 @@ AI 모델은 말을 알아듣고 도구를 고르는 일만 합니다. 조회와
 - **8. 30.** — **v0.3**: 신청 이후의 생애주기(추적·취소·한도 복원·같은 요청 한 번만), 규정 3종 추가, 적합성 시험 33건
 - **8. 31.** — 행정안전부 「AI 정부 실험실」 공공 GitLab 등록
 - **9. 4.~6.** — 지자체 통합도서관 5곳 규정 조사, v0.4 로드맵·설정 초안 공개(차이를 숨기지 않음)
-- **9. 23.** — 실험실 가상서버 배정(접속이 되지 않아 쓰지 않음), 별도 우분투 24.04 환경에서 33건 재현 통과
+- **9. 23.** — 실험실 가상서버 배정(접속이 되지 않아 쓰지 않음)
 - **9. 27.** — v0.3.1 실험실 키트: 정보나루 관내 조회, SQLite 저장, 해시 사슬 감사, 실측 스크립트와 기록지
 - **10. 12.** — v0.3.2 제3자 구동 정비: 한 번 실행, `requirements.txt`, CHANGELOG, 모델 2종 구동 절차, 중계 설계
 - **10. 13.** — v0.3.3 README 전면 개정, 로드맵에 「위임 범위 안 자동 재경로」
